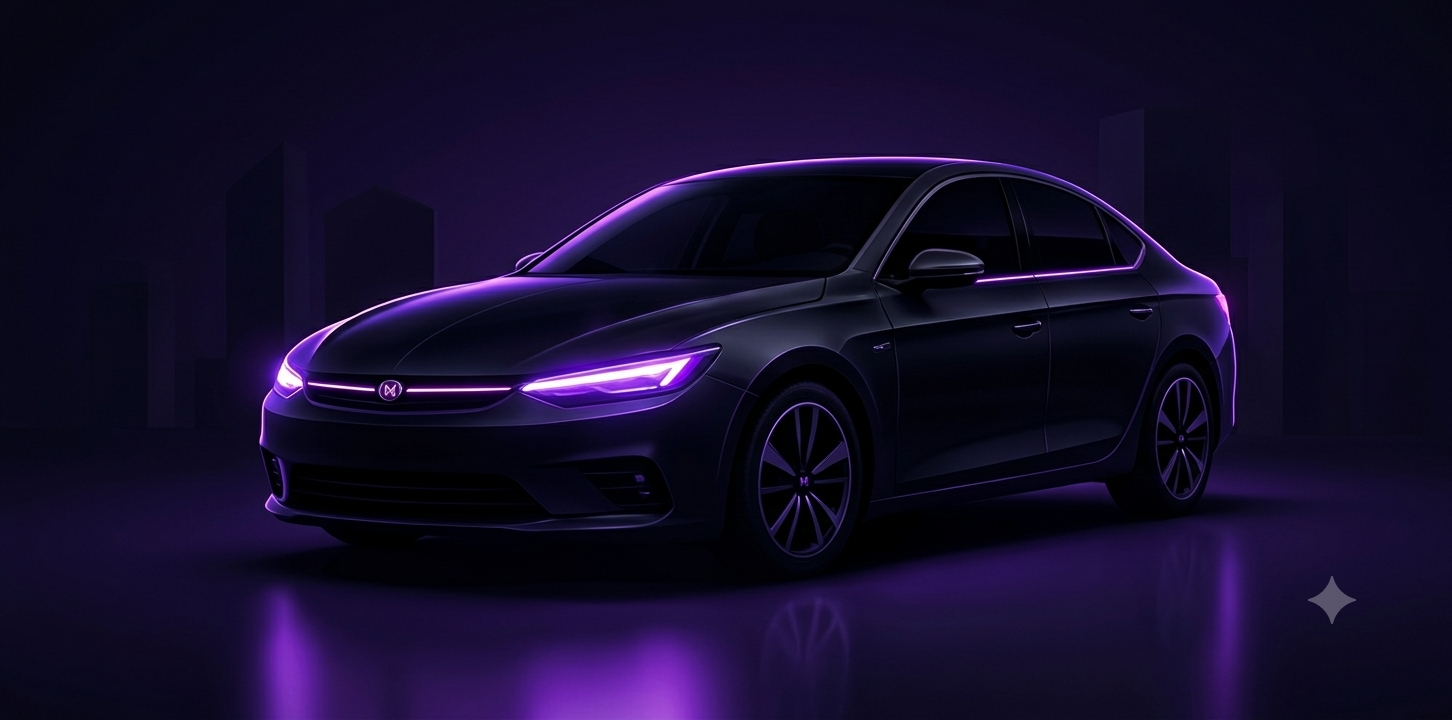
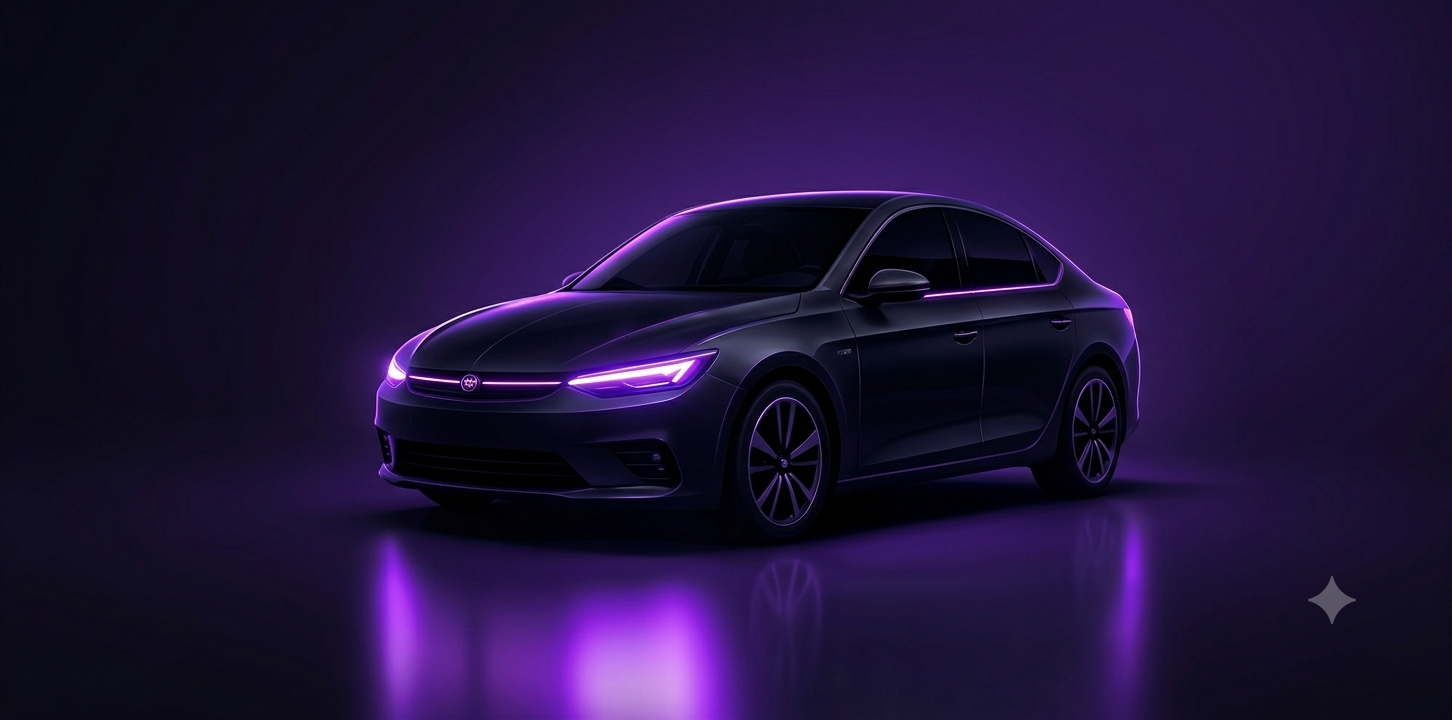
fix: show hero car image whole instead of cropped, update to new render
Per feedback, the cropped/cover-fit box read as a hard rectangular
frame around the car. Show the full image at its natural aspect ratio
instead so it blends into the page background, and pick up the
replacement render the user dropped in at the same path.

diff --git a/components/home/Hero.tsx b/components/home/Hero.tsx
@@ -91,18 +91,17 @@ export default function Hero({ city, onCityChange }: Props) {
           </div>
 
           <div className="hidden lg:flex justify-center items-center relative">
-            <div className="absolute w-[420px] h-[420px] bg-violet-600/30 rounded-full blur-[100px] pointer-events-none" />
+            <div className="absolute w-[480px] h-[480px] bg-violet-600/25 rounded-full blur-[110px] pointer-events-none" />
 
-            <div className="relative w-full max-w-[500px] aspect-[500/190] drop-shadow-[0_20px_60px_rgba(124,58,237,0.45)]">
-              <Image
-                src="/hero-car.png"
-                alt=""
-                fill
-                priority
-                sizes="500px"
-                className="object-cover object-center"
-              />
-            </div>
+            <Image
+              src="/hero-car.png"
+              alt=""
+              width={1452}
+              height={720}
+              priority
+              sizes="500px"
+              className="relative w-full max-w-[500px] h-auto"
+            />
           </div>
         </div>
       </div>